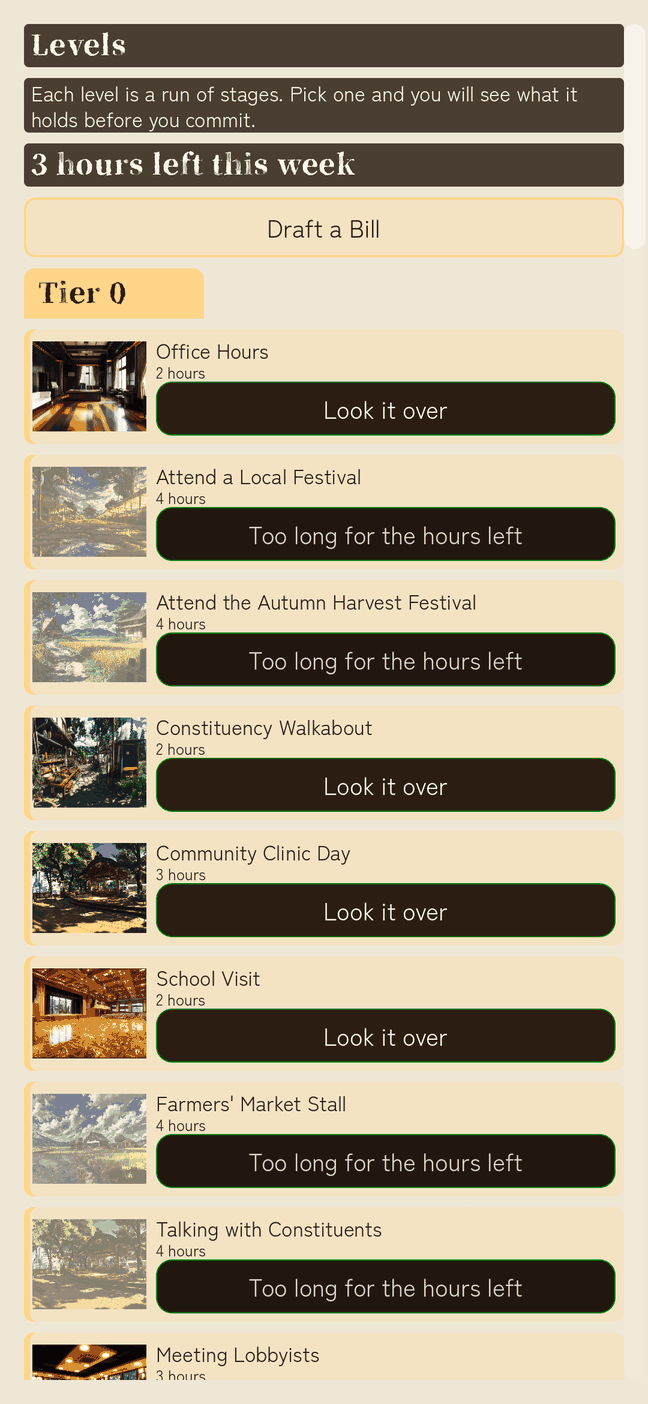
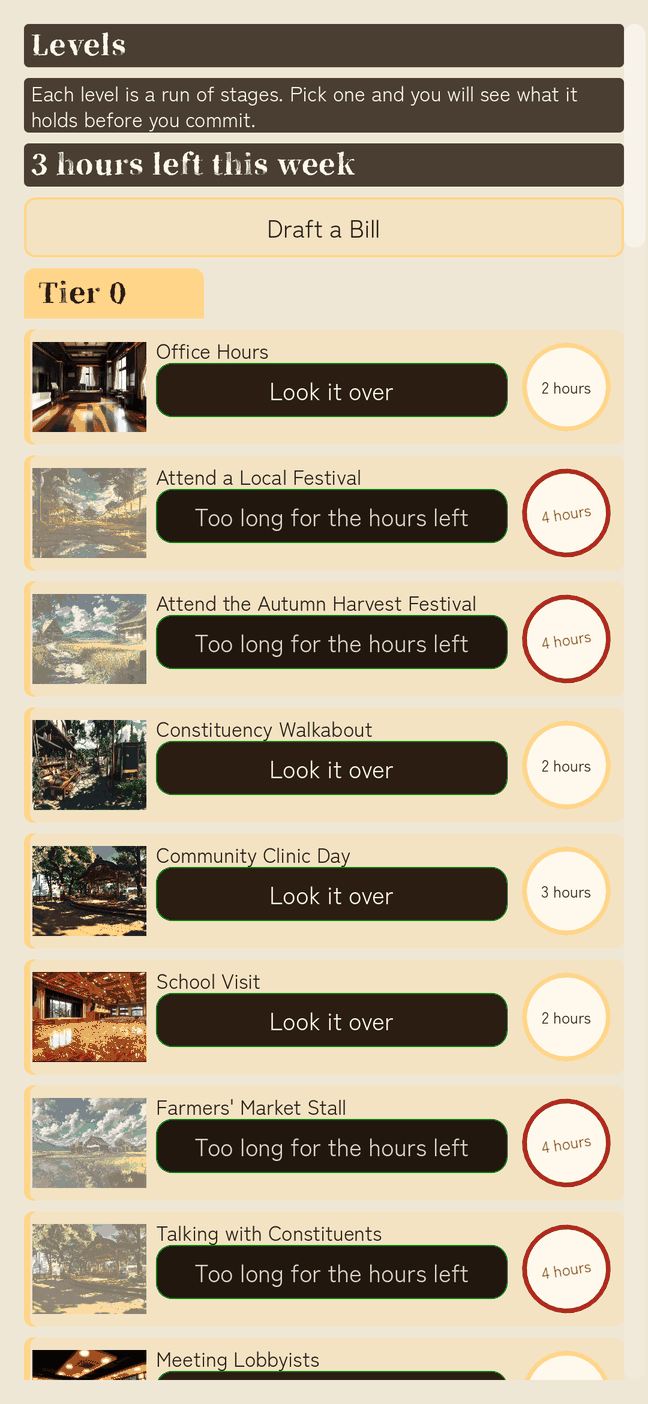
Hour rings: Living Office level rows show their hours in a ring (red and tilted when the level cannot start)
Claude-Session: https://claude.ai/code/session_01DfMHaaSwffhC48YRSkV9vX

Changed region(s): [[0.0309, 0.245, 0.9568, 1.0]]

diff --git a/design/review/p9_ui_styles_2026-11-17/REPORT.md b/design/review/p9_ui_styles_2026-11-17/REPORT.md
@@ -19,10 +19,10 @@ Branch `panel/p9-ui-styles`, from `main` (the card-face fix and the text sweep a
 | | |
 |---|---|
 | Built and tested | Style framework; End of Week Payments; Office styles shop and switching; all three styles' Office, Levels and Battle arrangements; seats and arc; the raised-on-touch and fanned hand; the cue as bubble, band or scroll; zoom note; docket card in every style; tests for parity, gold lines, hand visibility and raise, card faces per style, switching, organization marks, style elements, and the text sweep in all three styles |
-| Living Office | Room-object pins and docket card, payments tray, folders and divider tabs, speech-bubble cue, red intent pill, seats with a threshold mark (or an arc), fanned hand, amber End Turn |
+| Living Office | Room-object pins and docket card, payments tray, folders with hour rings and divider tabs, speech-bubble cue, red intent pill, seats with a threshold mark (or an arc), fanned hand, amber End Turn |
 | Broadcast | Gold slanted docket bar, 2 x 2 tiles, lower-third and red-edged narration, schedule rows with a gold hour chip, gold tier chips, slanted plates, gold diagonal between the characters, gold slanted End Turn; the slant bar and cue band with their gold lines kept (D2) |
 | Woodblock | Indigo docket plank with a 行 seal, 3 x 2 plaque tiles, cartouches, print cards with a framed picture and a red hours seal, stamped tier headings, ledger lines with dotted leaders, hanging-scroll cue, 攻/守/得 intent seal, plaques on labels |
-| Still left out | The mockups' hours ring on level rows and "+ Draft a bill" dashed border (a tab is used), picture previews in the styles shop (no preview art), the "Phone ·" object words on the pins (same-information rule) |
+| Still left out | The "+ Draft a bill" dashed border (a solid edge is used), picture previews in the styles shop (no preview art), the "Phone ·" object words on the pins (same-information rule) |
 | `tools/verify.sh` | See section 3 |
 | Touch targets | Still a known gap by your decision: the app's buttons are 90 to 100 px against 122. The new tiles and pins are 122 px |
 
@@ -112,7 +112,7 @@ Existing click tests changed because the hand no longer scrolls sideways: `loop_
 |---|---|
 | Room-object labels | The pins read "Events", "Marketplace" and so on (the destination), not the mockup's "Phone · Events". An object word shown in one style only would break the same-information rule; the lamp sits where the object is |
 | Room-object positions | My first placement from the two pictures (`art.json` `office_hotspots`), not yet looked at by you. The Promises pin only shows when a promise is open, as before |
-| Levels list: hours ring and dashed tab | The hours are a line (Living Office), a gold chip (Broadcast) or a red seal (Woodblock), not a ring; the Draft a Bill tab has a solid edge, not a dashed one |
+| Levels list: dashed tab | The Draft a Bill tab has a solid edge, not a dashed one. The hours are a ring (Living Office, amber, or red and tilted when the level cannot start), a gold chip (Broadcast) or a red seal (Woodblock) |
 | Intent | A red band the width of the opponent block, not a floating pill (the label sits in the opponent block's column) |
 | Office styles tab | Cards with a colour swatch, not picture previews (no preview art exists) |
 | Seat colour for the opponent | The opponent's seats use the existing opponent red, not the party colour (the bar does not know the party yet) |

diff --git a/design/CHANGELOG.md b/design/CHANGELOG.md
@@ -1232,4 +1232,5 @@ What is in, what is not. See `design/review/p9_ui_styles_2026-11-17/REPORT.md` f
   - **Styles are bought in the Marketplace only (Cameron's pick):** Administration > Appearance and Music only switches between owned styles; its row is "Office styles", the same as the tab.
   - **Smaller:** a mark at the threshold on the seats; "1 of 2" and "Turn 1 of 10" use no-break spaces so the number is not left alone on a line; organization icons get a dark backing (Broadcast's measured 2.7 to 1, now 3.7 or more); a level that cannot be started dims only its picture, so the reason on its button stays at full strength.
   - **Evidence added:** week-end pop-up, a Levels list late in the week with levels that cannot start, a touched-card moment, and icon contrast per style measured from pixels.
+- **Hour rings (Cameron: "Build the hour rings").** In Living Office each level row has its hours in a ring at the right of the folder: amber when the level can be started, red and tilted when it cannot (the reason stays on the button). The ring holds the same "N hours" line every style shows, moved rather than rewritten, so the same-information rule holds. Test: `style_elements_test`.
 
